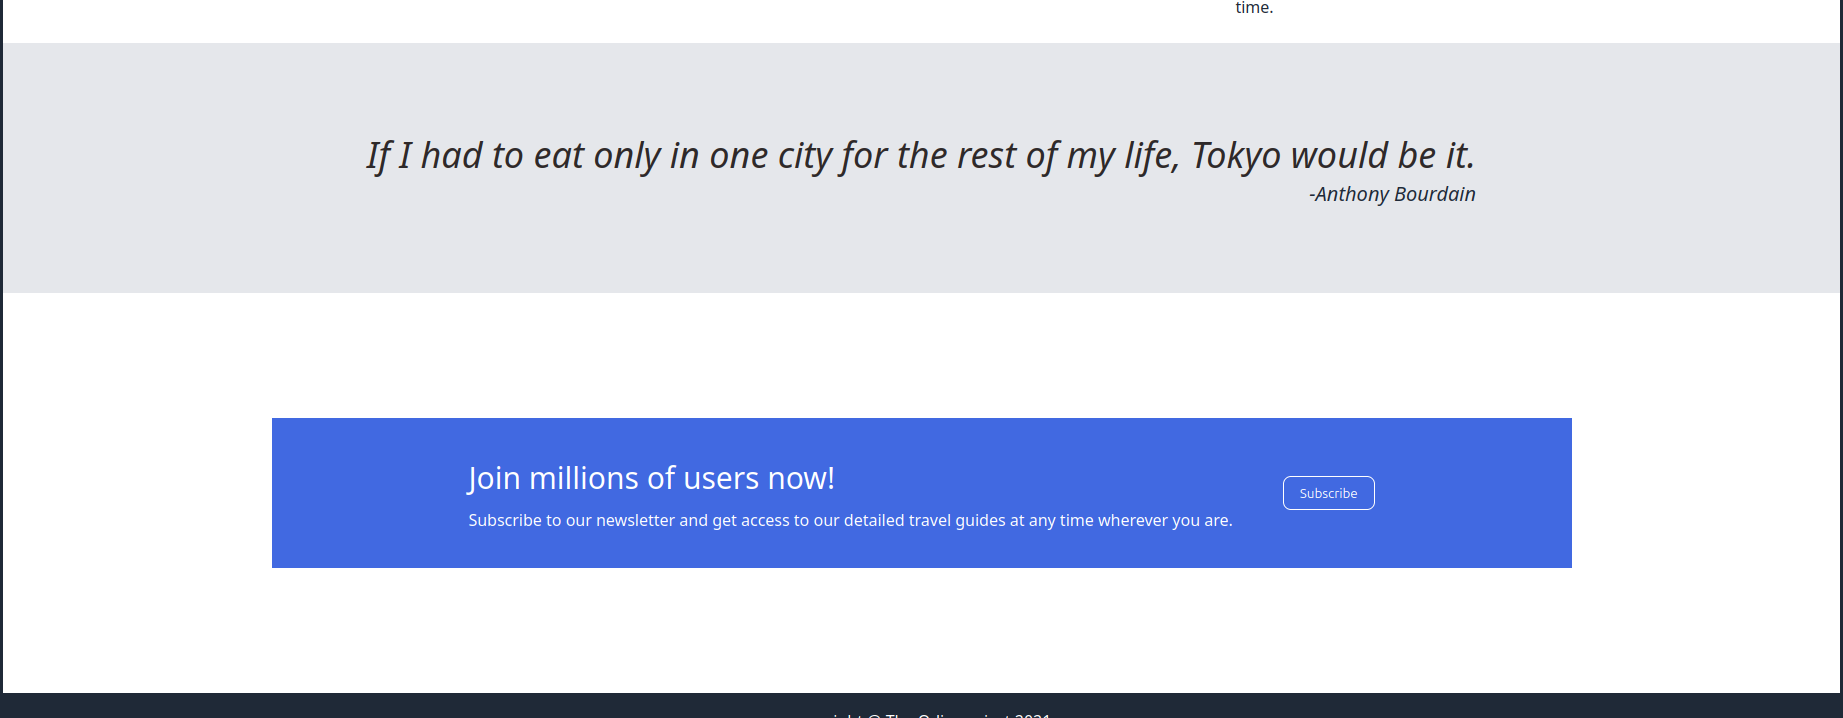
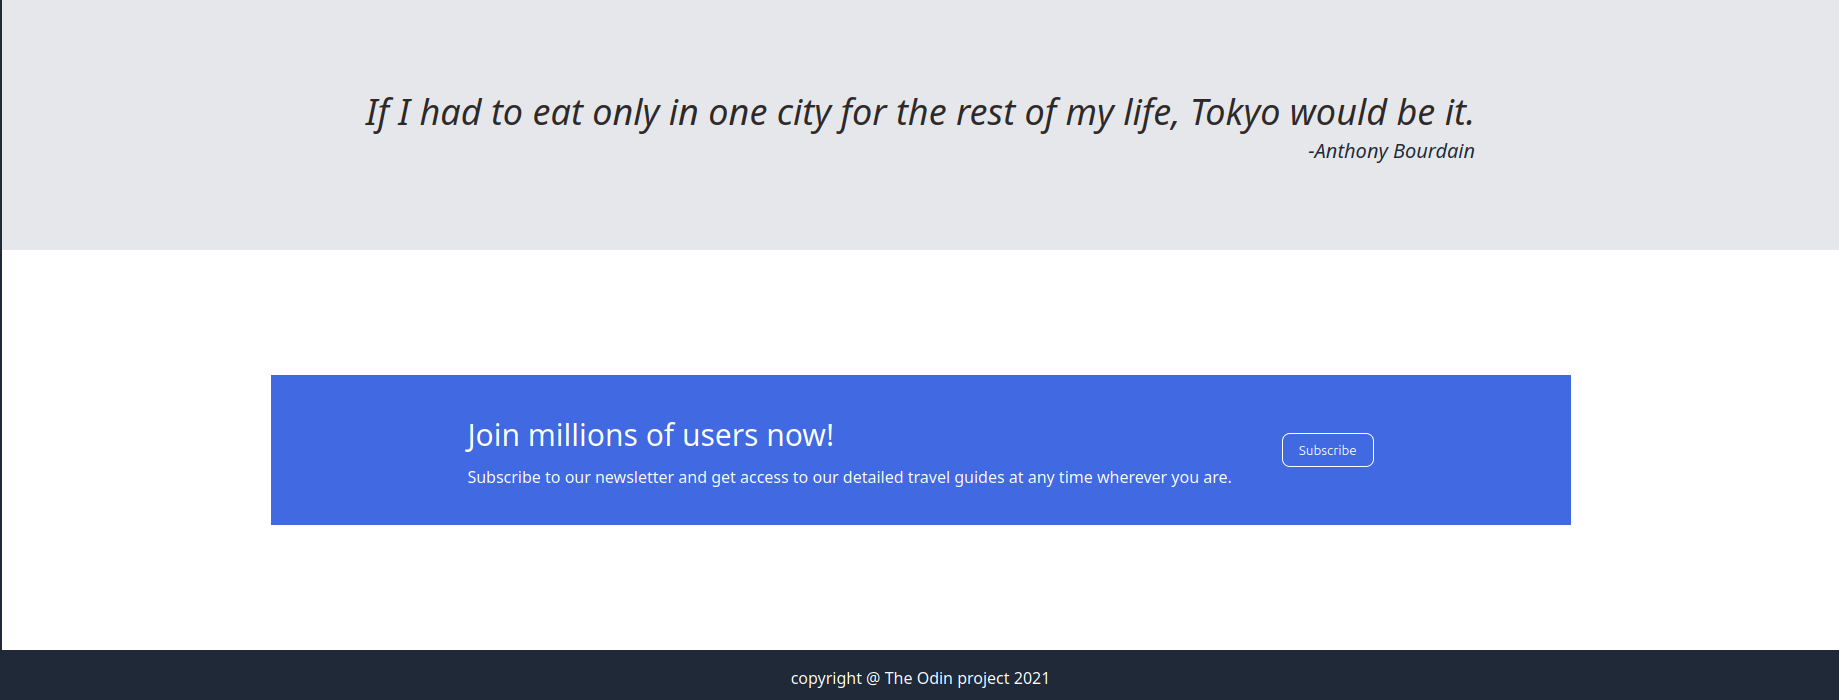
made readme file for public to see it with live preview and screenshots of the project

diff --git a/README.md b/README.md
@@ -1,1 +1,11 @@
 # odin-landingpage
+
+This is the webpage I made to the [Landing Page project](https://www.theodinproject.com/lessons/foundations-landing-page) of The Odin Project<br>
+The purpose of this project is to apply all the concepts learned in the Flexbox part of The Odin Project's Foundations curriculum<br>
+Design used as a reference
+![screenshot of the provided project](01.png)<br>
+The screenshot of the webpage i made ( or [click here](https://amitkumbhakar.github.io/odin-landingpage/) to see a live preview):<br><br><br>
+![screenshot of my project](project.png)
+![screenshot of my project](project1.png)
+
+
